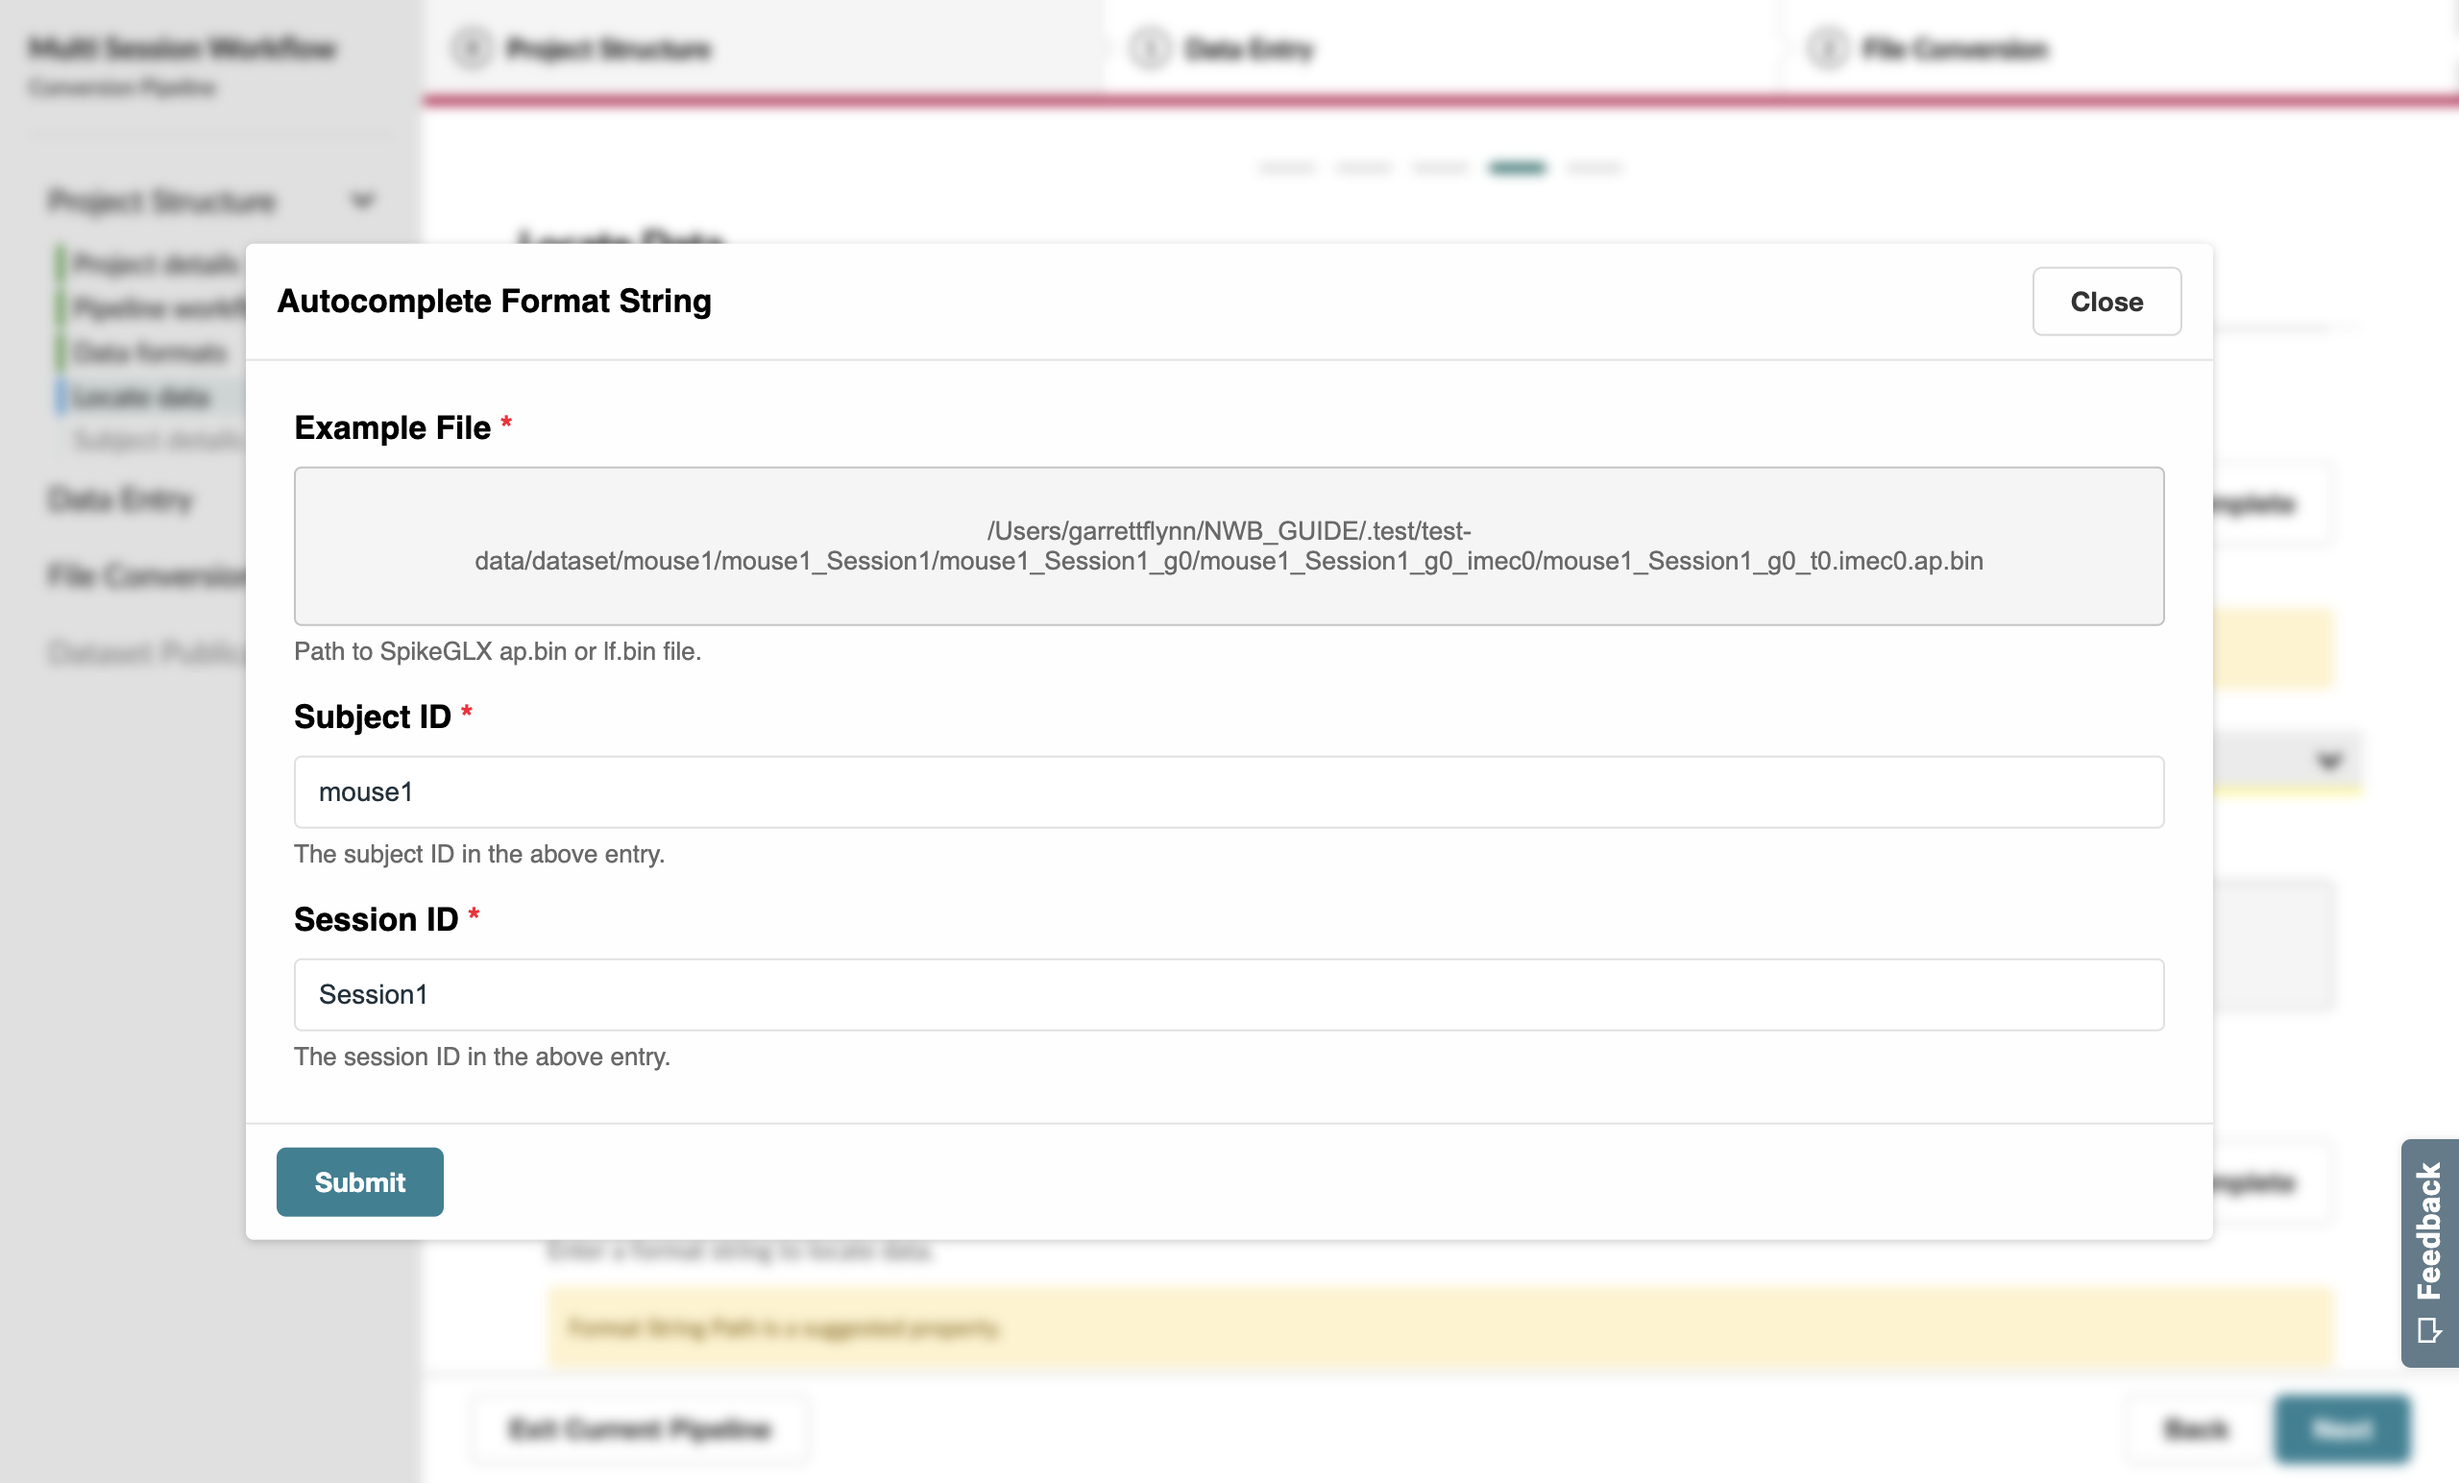
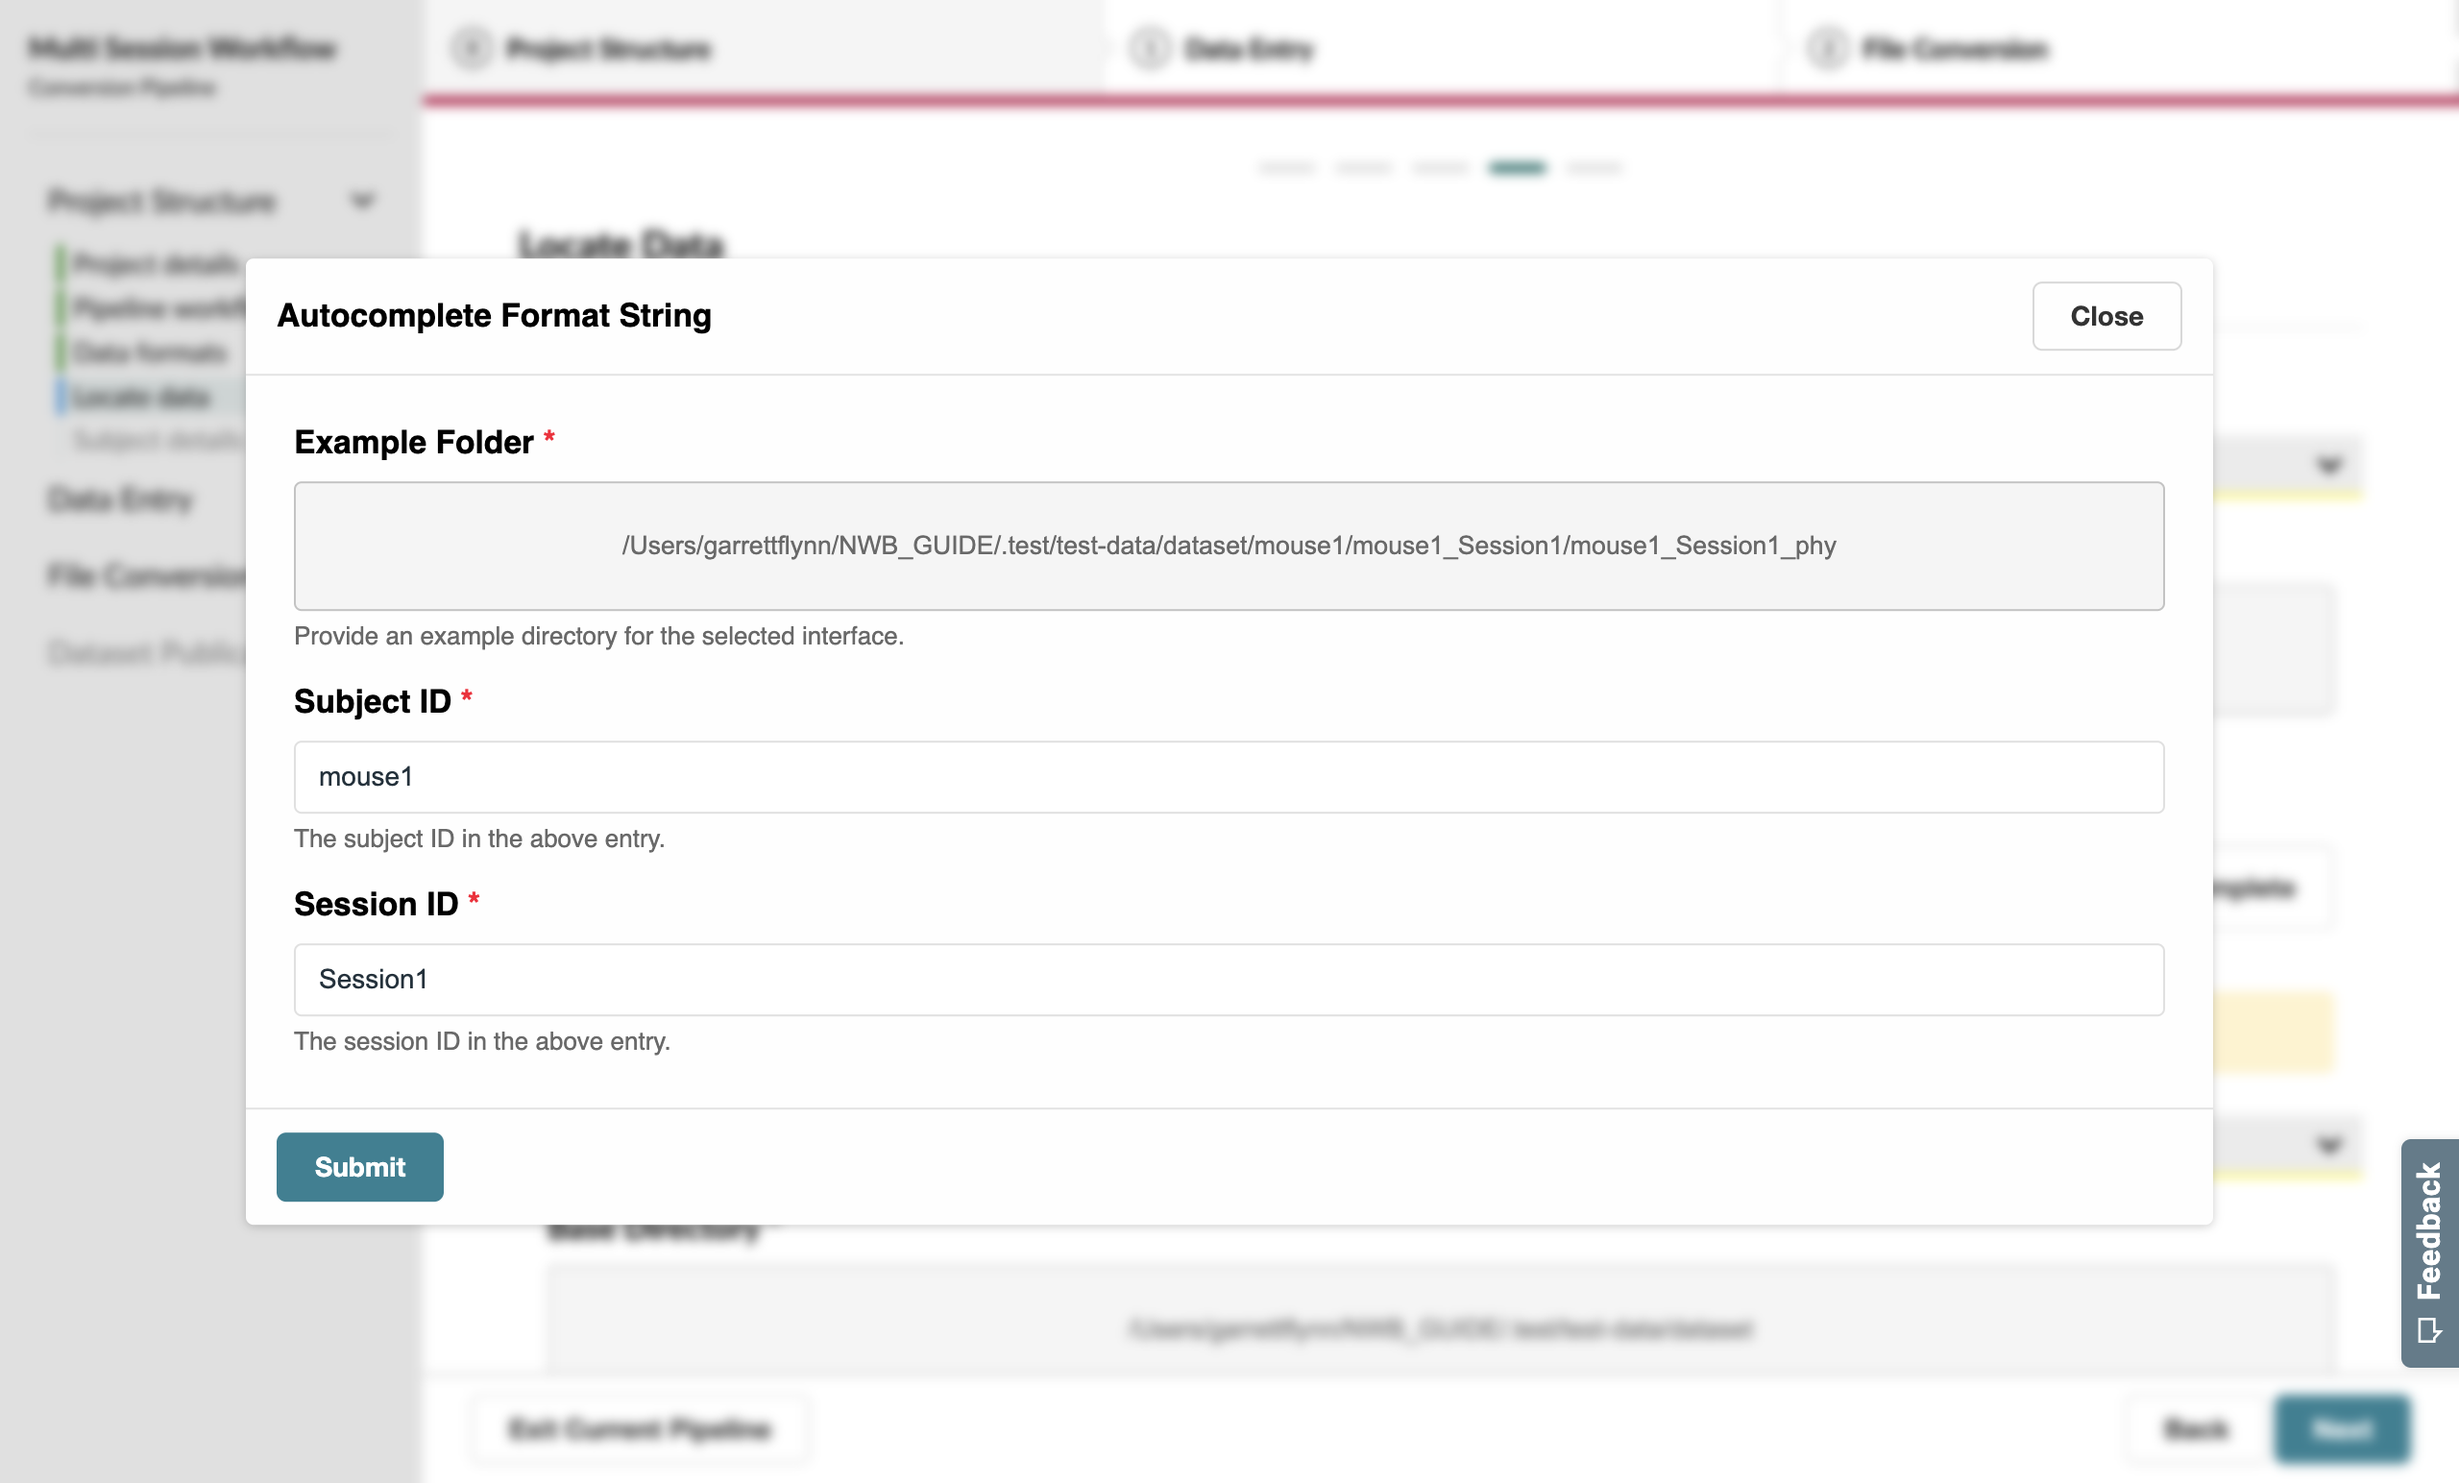
Update order of locate data

diff --git a/tests/e2e/workflow.ts b/tests/e2e/workflow.ts
@@ -88,11 +88,6 @@ export default async function runWorkflow(name, workflow, identifier) {
 
   test('Create new pipeline by specifying a name', async () => {
 
-    // Advance to instructions page
-    await toNextPage('start')
-
-    await takeScreenshot(join(identifier, 'intro-page'), 500)
-
     // Advance to general information page
     await toNextPage('details')
 
@@ -209,8 +204,6 @@ export default async function runWorkflow(name, workflow, identifier) {
         baseInput.updateData(basePath)
       })
 
-      dashboard.main.querySelector('main > section').scrollTop = 200 // Scroll down to see all interfaces
-
     },
       testInterfaceInfo,
       testDatasetPath
@@ -218,17 +211,20 @@ export default async function runWorkflow(name, workflow, identifier) {
 
     await takeScreenshot(join(identifier, 'pathexpansion-basepath'), 300)
 
-    const name = Object.keys(testInterfaceInfo.common)[0]
-    const interfaceId = testInterfaceInfo.common[name].id
-    const autocompleteInfo = testInterfaceInfo.multi[name].autocomplete
 
-    await evaluate(id => {
+    const interfaceId = await evaluate(() => {
       const dashboard = document.querySelector('nwb-dashboard')
       const form = dashboard.page.form
+      const id = Object.keys(form.accordions)[0]
       const formatInput = form.getFormElement([id, 'format_string_path'])
       const autocompleteButton = formatInput.controls[0]
       autocompleteButton.onClick()
-    }, interfaceId)
+      return id
+    })
+
+    // Use autocomplete on first interface
+    const name = Object.entries(testInterfaceInfo.common).find(([name, info]) => info.id === interfaceId)![0]
+    const autocompleteInfo = testInterfaceInfo.multi[name].autocomplete
 
     await takeScreenshot(join(identifier, 'pathexpansion-autocomplete-open'), 300)
 
@@ -258,15 +254,15 @@ export default async function runWorkflow(name, workflow, identifier) {
       const dashboard = document.querySelector('nwb-dashboard')
       const form = dashboard.page.form
 
+      const accordionKeys = Object.keys(form.accordions)
+
       // Fill out the path expansion information for non-autocompleted interfaces
-      Object.entries(common).slice(1).forEach(([ name, info ]) => {
-        const id = info.id
+      accordionKeys.slice(1).forEach(id => {
+        const name = Object.entries(common).find(([_, info]) => info.id === id)![0] 
         const { format } = multi[name]
         const formatInput = form.getFormElement([id, 'format_string_path'])
         formatInput.updateData(format)
       })
-
-      dashboard.main.querySelector('main > section').scrollTop = 200
 
     }, testInterfaceInfo)
 

diff --git a/src/renderer/src/pages.js b/src/renderer/src/pages.js
@@ -2,7 +2,6 @@ import { GettingStartedPage } from "./stories/pages/getting-started/GettingStart
 import { DocumentationPage } from "./stories/pages/documentation/Documentation";
 import { ContactPage } from "./stories/pages/contact-us/Contact";
 import { GuidedHomePage } from "./stories/pages/guided-mode/GuidedHome";
-import { GuidedStartPage } from "./stories/pages/guided-mode/GuidedStart";
 import { GuidedNewDatasetPage } from "./stories/pages/guided-mode/setup/GuidedNewDatasetInfo";
 import { GuidedStructurePage } from "./stories/pages/guided-mode/data/GuidedStructure";
 import { sections } from "./stories/pages/globals";
@@ -85,10 +84,7 @@ const pages = {
         label: "Convert",
         icon: guidedIcon,
         pages: {
-            start: new GuidedStartPage({
-                label: "Start",
-            }),
-
+            
             details: new GuidedNewDatasetPage({
                 title: "Project Setup",
                 label: "Project details",

diff --git a/docs/tutorials/index.rst b/docs/tutorials/index.rst
@@ -1,10 +1,13 @@
 Tutorials
 =======================================
 The NWB Graphical User Interface for Data Entry (GUIDE) is a desktop tool for converting neurophysiological data
-to the Neurodata Without Borders (NWB) format and uploading to the DANDI Archive. In these tutorials, we detail this
-process from initial setup to final upload.
+to the Neurodata Without Borders (NWB) format and uploading to the DANDI Archive. 
+
+In these tutorials, you'll follow along on a :doc:`local installation of the GUIDE </installation>` as we detail the conversion process from initial setup to final upload.
 
 Before you begin these tutorials, **you'll need to generate the tutorial dataset** using the instructions on the Dataset page.
+
+
 
 
 .. toctree::
